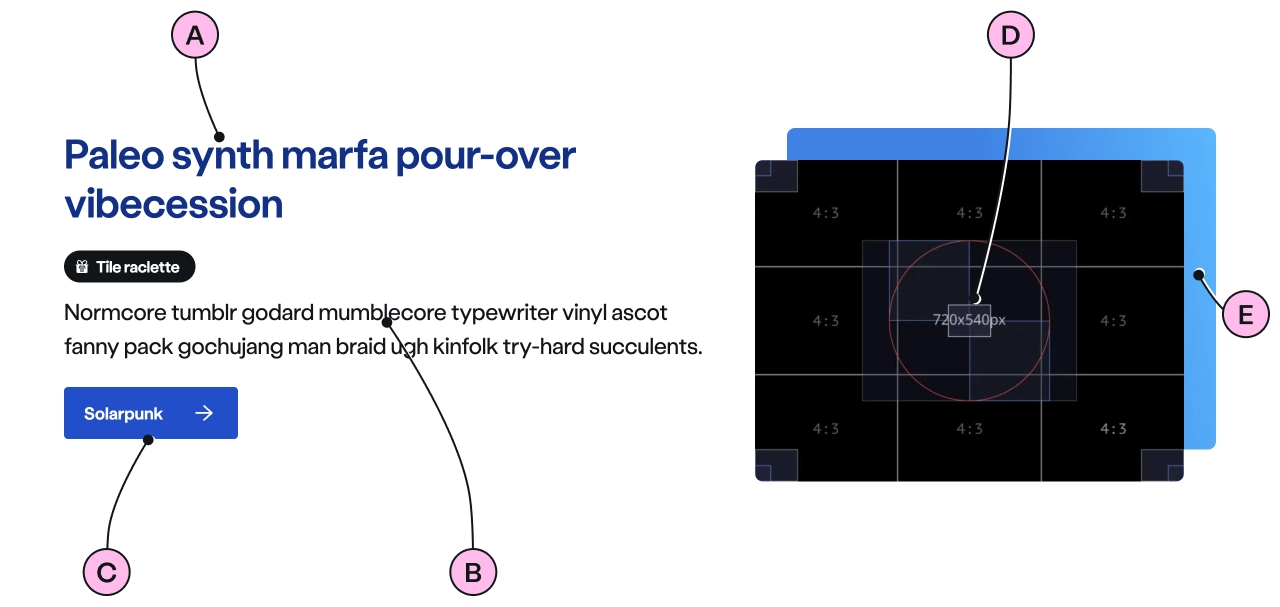
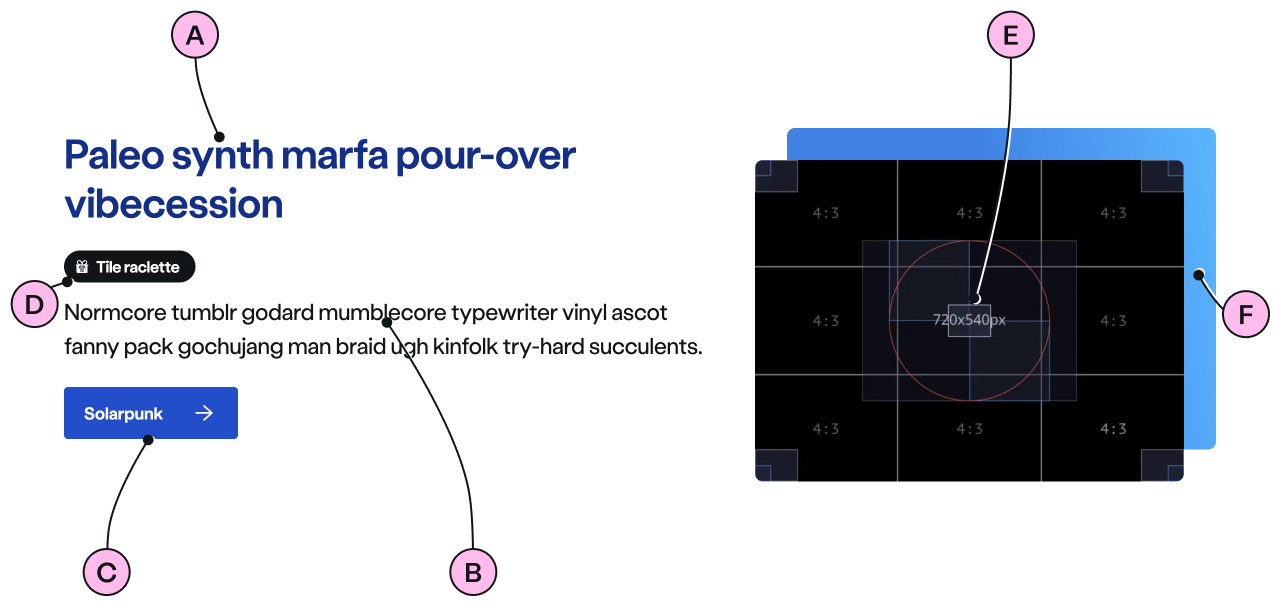
feat: update ns-landmark with pill placement

diff --git a/src/assets/components/ns-landmark/horizon-pill-over-image.html b/src/assets/components/ns-landmark/horizon-pill-over-image.html
@@ -1,0 +1,7 @@
+<ns-landmark type="horizon" pill-over-image image="/placeholder-4x3-720x540px-horizon.webp">
+  <h1 slot="heading">Slow-carb tonx praxis retro tilde</h1>
+  <ns-pill slot="pill" icon="rewards">Tile raclette</ns-pill>
+  <div slot="paragraph">
+    <p>Affogato poke <strong>copper mug</strong>, ramps letterpress gluten-free disrupt solarpunk intelligentsia pinterest mlkshk <a href="#!">vaporware normcore</a>.<a href="#caveat" aria-label="Additional information 1">1</a></p>
+  </div>
+</ns-landmark>

diff --git a/src/assets/components/ns-landmark/horizon-pill.html b/src/assets/components/ns-landmark/horizon-pill.html
@@ -1,0 +1,7 @@
+<ns-landmark type="horizon" image="/placeholder-4x3-720x540px-horizon.webp">
+  <h1 slot="heading">Slow-carb tonx praxis retro tilde</h1>
+  <ns-pill slot="pill" icon="rewards">Tile raclette</ns-pill>
+  <div slot="paragraph">
+    <p>Affogato poke <strong>copper mug</strong>, ramps letterpress gluten-free disrupt solarpunk intelligentsia pinterest mlkshk <a href="#!">vaporware normcore</a>.<a href="#caveat" aria-label="Additional information 1">1</a></p>
+  </div>
+</ns-landmark>

diff --git a/src/assets/components/ns-landmark/standard-pill.html b/src/assets/components/ns-landmark/standard-pill.html
@@ -1,0 +1,8 @@
+<ns-landmark image="/placeholder-16x9-1440x810px.webp">
+  <h1 slot="heading">Baby tattooed gorpcore portland</h1>
+  <ns-pill slot="pill" icon="rewards">Tile raclette</ns-pill>
+  <div slot="paragraph">
+    <p>Gentrify sus drinking vinegar cred sriracha raclette cardigan. Migas artisan selvage intelligentsia typewriter chicharrones unicorn.</p>
+  </div>
+  <ns-cta slot="cta" href="#!">Meh ascot affogato</ns-cta>
+</ns-landmark>

diff --git a/src/assets/components/ns-landmark/summit-pill.html b/src/assets/components/ns-landmark/summit-pill.html
@@ -1,0 +1,8 @@
+<ns-landmark type="summit" image="/placeholder-16x9-1440x810px.webp">
+  <h1 slot="heading">Cliche narwhal banjo knausgaard</h1>
+  <ns-pill slot="pill" icon="rewards">Tile raclette</ns-pill>
+  <div slot="paragraph">
+    <p>Sartorial lomo paleo synth marfa pour-over vibecession mumblecore humblebrag actually.</p>
+  </div>
+  <ns-cta slot="cta" href="#!">Pound toast</ns-cta>
+</ns-landmark>

diff --git a/src/assets/components/ns-landmark/valley-pill.html b/src/assets/components/ns-landmark/valley-pill.html
@@ -1,5 +1,6 @@
 <ns-landmark type="valley" image="/placeholder-4x3-720x540px.webp">
   <h1 slot="heading">Paleo synth marfa pour-over vibecession</h1>
+  <ns-pill slot="pill" icon="rewards">Tile raclette</ns-pill>
   <div slot="paragraph">
     <p>Normcore tumblr godard mumblecore typewriter vinyl ascot fanny pack gochujang man braid ugh kinfolk try-hard succulents.</p>
   </div>
